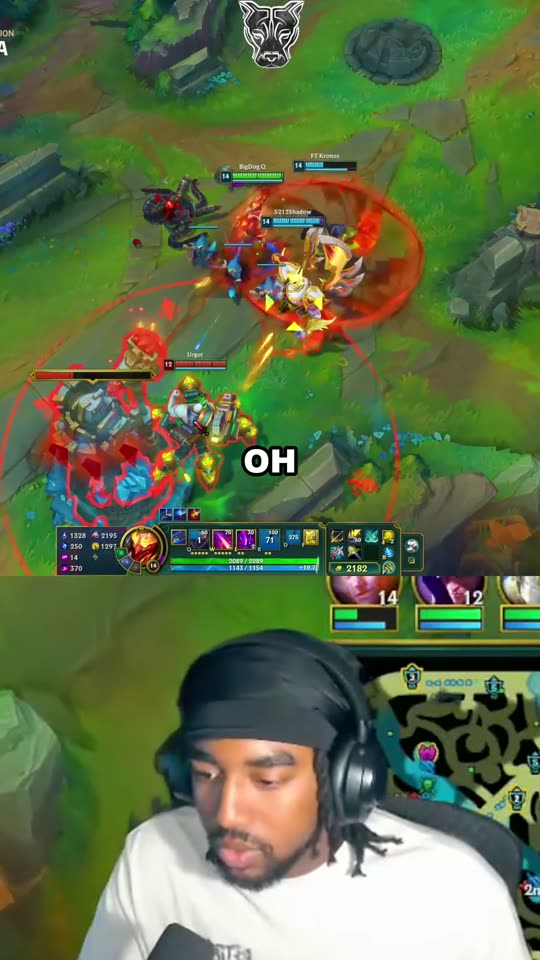
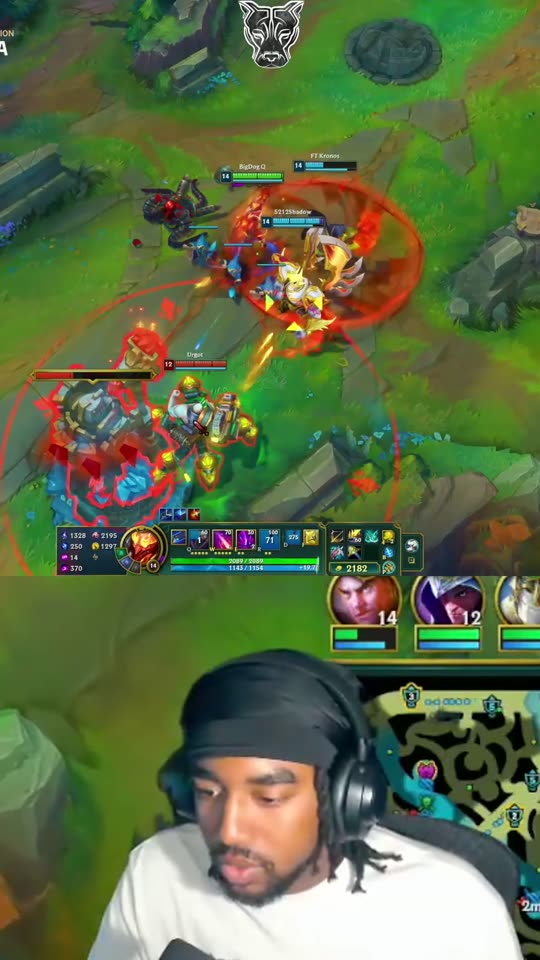
Site: update Open problems and the Shorts stage
Double captions fixed (removed); webcam detection reworded to the measured
held-out numbers; 'filters tuned on small samples' added. Shorts text covers
the zoom, the live-face check and the caption rule; both Short stills
re-rendered with the current code.

diff --git a/site/index.html b/site/index.html
@@ -244,7 +244,7 @@ anything else                 <span class="r">reject</span></code></pre>
     <div class="what">
       <span class="tag">Plain code</span>
       <h3>Cut three Shorts</h3>
-      <p>The three best clips are cut to about 30 seconds and turned vertical. When a webcam is found, gameplay goes on top and the streamer's face below; otherwise the gameplay is centred.</p>
+      <p>The three best clips are cut to about 30 seconds and turned vertical. When a webcam is found, gameplay goes on top and the streamer's face below; otherwise the gameplay is centred and zoomed in slightly. A clip only counts as having a webcam if the face moves between frames and shows skin tones, which stops HUD portraits and champion art from being mistaken for the streamer. If the streamer already burns English captions into their stream, the Short adds none of its own.</p>
       <figure class="media shorts">
         <img src="assets/short_1.jpg" width="540" height="960" loading="lazy" alt="One of the night's vertical Shorts.">
         <img src="assets/short_2.jpg" width="540" height="960" loading="lazy" alt="Another of the night's vertical Shorts.">
@@ -291,8 +291,8 @@ anything else                 <span class="r">reject</span></code></pre>
   <ul class="limits">
     <li><h3>The pro-broadcast check is often wrong</h3><p>On one audited night it was right about 2 of 7 rejections. The other five were ordinary streamers.</p></li>
     <li><h3>The judge watches a low-resolution copy</h3><p>Twitch now serves a vertical 360p file first, and the judge reuses it instead of the 720p version it was designed for.</p></li>
-    <li><h3>Shorts miss the face about half the time</h3><p>When webcam detection fails, half the Short is an enlarged patch of HUD.</p></li>
-    <li><h3>Shorts can still show two captions</h3><p>The source-caption check runs for the main video but not yet for Shorts.</p></li>
+    <li><h3>Some webcams go undetected</h3><p>Checked by hand on 52 clips from a night it wasn't tuned on: the right face on most, a wrong one on 2 (a drawn overlay character and a menu screen), and about 7 small or dark webcams missed. A miss falls back to zoomed gameplay, so the Short still works.</p></li>
+    <li><h3>The filters are tuned on small samples</h3><p>Thresholds were set by hand against a few dozen labelled clips. A review queue now samples every filter's decisions each night to build a proper test set.</p></li>
   </ul>
 </section>
 

diff --git a/docs/SITE.md b/docs/SITE.md
@@ -17,18 +17,11 @@ with the owner overlay's 222/22 settings and the v4 crop regions.
 
 ## Pending (pipeline changes the site doesn't reflect yet)
 
-- 2026-09-24 — Shorts no longer double-caption (open problem P4 is fixed: remove it).
-- 2026-09-24 — no-webcam Shorts are zoomed 1.3x on the centre (owner overlay). Row S9
-  ("otherwise the gameplay is centred") could add "and slightly zoomed".
-- 2026-09-24 — Shorts/thumbnail webcam detection rewritten (whole frame, live-face
-  gates). Open problem P3 ("Shorts miss the face about half the time") is out of date:
-  reword to the measured numbers in DEVLOG 2026-09-24, or drop it. Also refresh
-  `docs/images/site.jpg` (README hero screenshot of the live page) after each export.
+- Refresh `docs/images/site.jpg` (README hero screenshot of the live page) after each
+  export — it currently shows "219 clips in".
 - 2026-09-24 — fetch now returns exactly `fetch_count` (222) instead of ~3 fewer.
   The next export should read "222 clips in, 22 out" (H1, F0, D1). Nothing to edit by
   hand: the exporter takes the count from clips.json.
-- 2026-09-23 — `tools/review_queue` (manual review of filter decisions) exists; the site
-  doesn't mention it. Optional.
 
 ## Ledger — every fact the site states, and where it comes from
 
@@ -61,11 +54,11 @@ Numbers of the 09-23 night come from the log; rules and limits come from config/
 | S6-replay | Slow-mo replay for top-rated clips | `video.replay_min_score: 7` |
 | S7 | Chapters + per-streamer links; PIL thumbnails in three colourways (sharp champion splash) | `production/credits.py`, `thumbnail.provider: local` |
 | S8 | Resumable upload, can't upload a day twice | `publishing/upload.py` (`state.uploaded_id`) |
-| S9 | Three best clips, ~30 s, face below / centred when none | `shorts.count`, `shorts.target_seconds: 32` |
+| S9 | Three best clips, ~30 s, face below / centred + slightly zoomed when none; live-face webcam check; no captions over English source captions | `shorts.count`, `shorts.target_seconds: 32` |
 | S10 | Raw downloads deleted after a day; masters only after YouTube confirms | `cleanup.keep_raw_days: 1`, `cleanup.py` |
 | T | Stage start times (first = first log line, 03:00:06) … finish 05:52:11, durations rounded to minutes | `[stage] starting` lines in the log |
 | D1 | All 219 to Gemini = 11 days of one model's allowance | 219 / 20 |
-| P1–P4 | Open problems: pro-broadcast check ~2/7 right; judge sees 360p copy; Shorts face miss ~50%; Shorts double captions | audits in this repo's chats (DEVLOG 2026-09-13 area); remove each when fixed |
+| P1–P4 | Open problems: pro-broadcast check ~2/7 right; judge sees 360p copy; webcams: 2 wrong / ~7 missed of 52 on a held-out night; filters tuned on small samples | DEVLOG 2026-09-13 (P1, P2), 2026-09-24 facecam entry (P3), CLAUDE.md eval loop + review queue (P4); remove each when fixed |
 
 ## Assets (`site/assets/`)
 
@@ -81,7 +74,7 @@ the footer credits them and the video description links each channel.
 | `caption_en.jpg` | #19 English caption | output @ chapter start + first 3-word phrase |
 | `caption_translate.jpg` | **09-21** #12 Polish source caption + ours (09-23 had no such clip; the exporter keeps the old still and its text) | 09-21 output |
 | `thumb_1..3.jpg` | 09-23 thumbnails **re-rendered with the restored avatar sizes** (the uploaded ones used the one-night 0.95 circle) | `thumbnail.generate_variants` |
-| `short_1.jpg`, `short_2.jpg` | two of the night's Shorts | `work/2026-09-23/shorts/` @ 6 s |
+| `short_1.jpg`, `short_2.jpg` | 09-23 Shorts (BigDog_Q split, YoungGooby zoomed) **re-rendered with the 2026-09-24 code** (live-face check, zoom, no double captions); the uploaded ones predate it | `shorts._render_short` @ 6 s |
 | `intro.jpg` | brand intro frame (currently unused) | 09-21 output @ 1.2 s |
 
 funnel.json `stage`: 2 = dropped by the VLM,
@@ -131,6 +124,9 @@ Built with Anthropic's `frontend-design` plugin guidance.
 - 2026-09-23 — v1: light editorial page, interactive funnel of the 09-21 night.
 - 2026-09-24 — v2: Dovetail-style dark redesign, renamed "Twitch Highlights Pipeline",
   hero video loop, animated hero grid, full HH:MM:SS stage times.
+- 2026-09-24 — Open problems updated: Shorts double captions removed (fixed), webcam
+  detection reworded to measured numbers, "filters tuned on small samples" added. Shorts
+  stage text mentions the zoom, the live-face check and the caption rule.
 - 2026-09-24 — re-exported from the 09-23 night (first 222/22 night: 219 in, 22 out).
   Exporter: crops now come from the best-ranked clip whose announcement the model read,
   and the model's reading is only quoted when unambiguous; missing caption/translation
